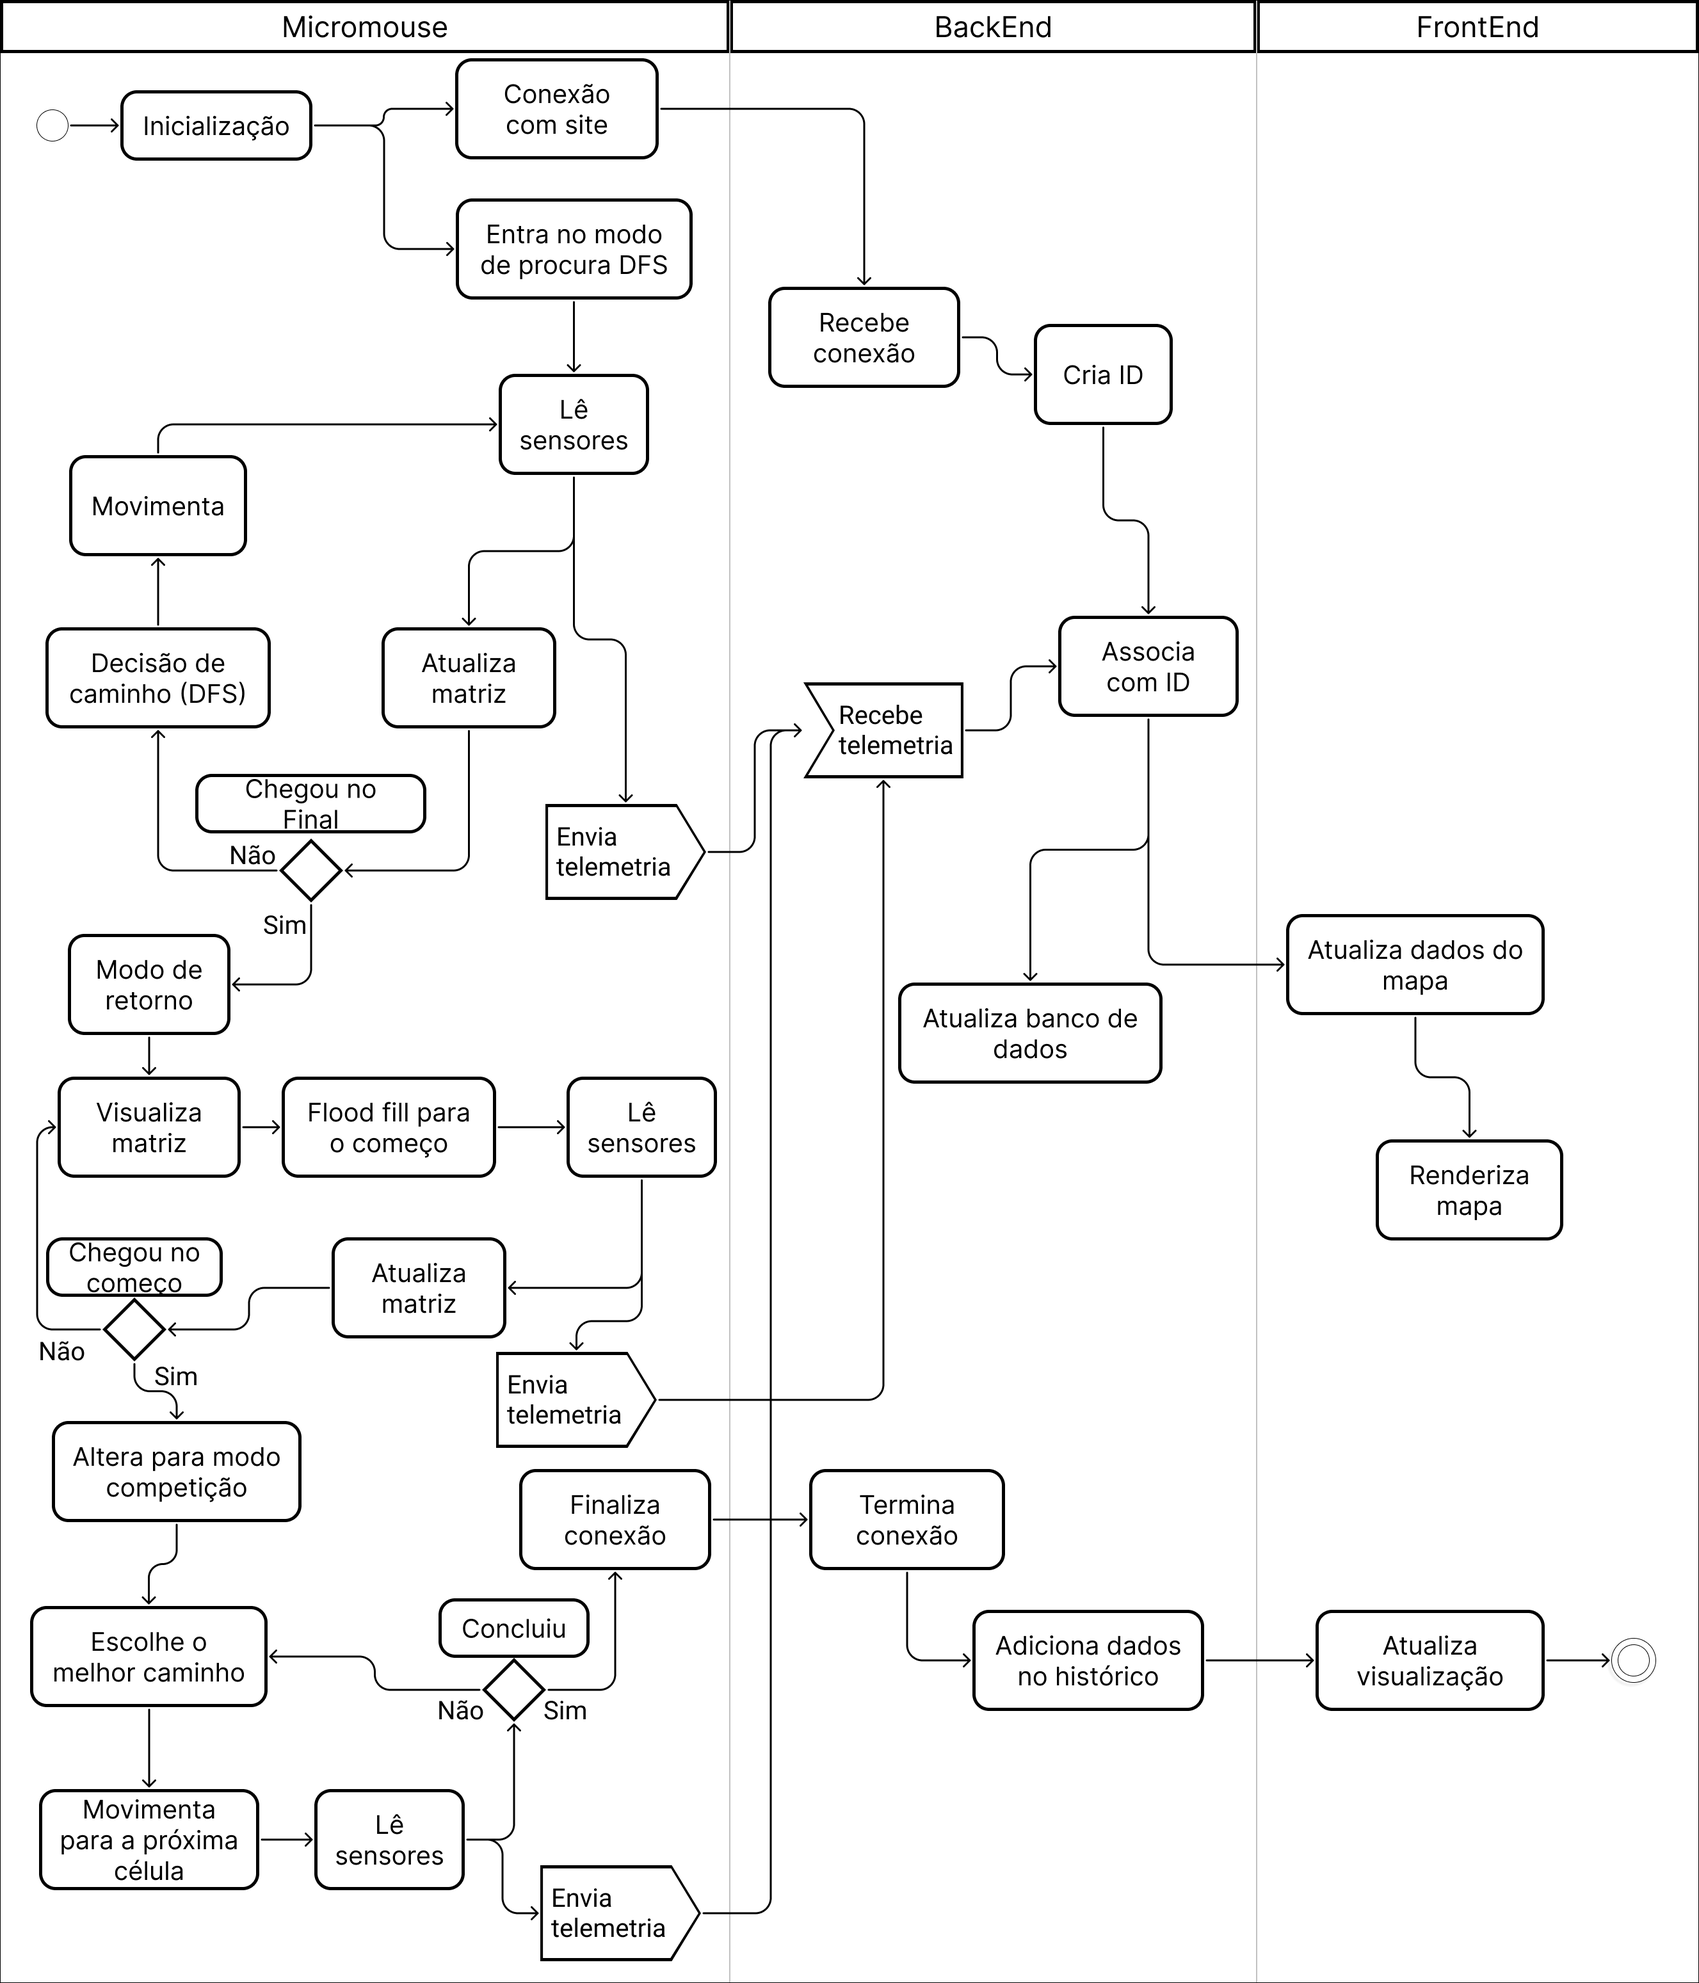
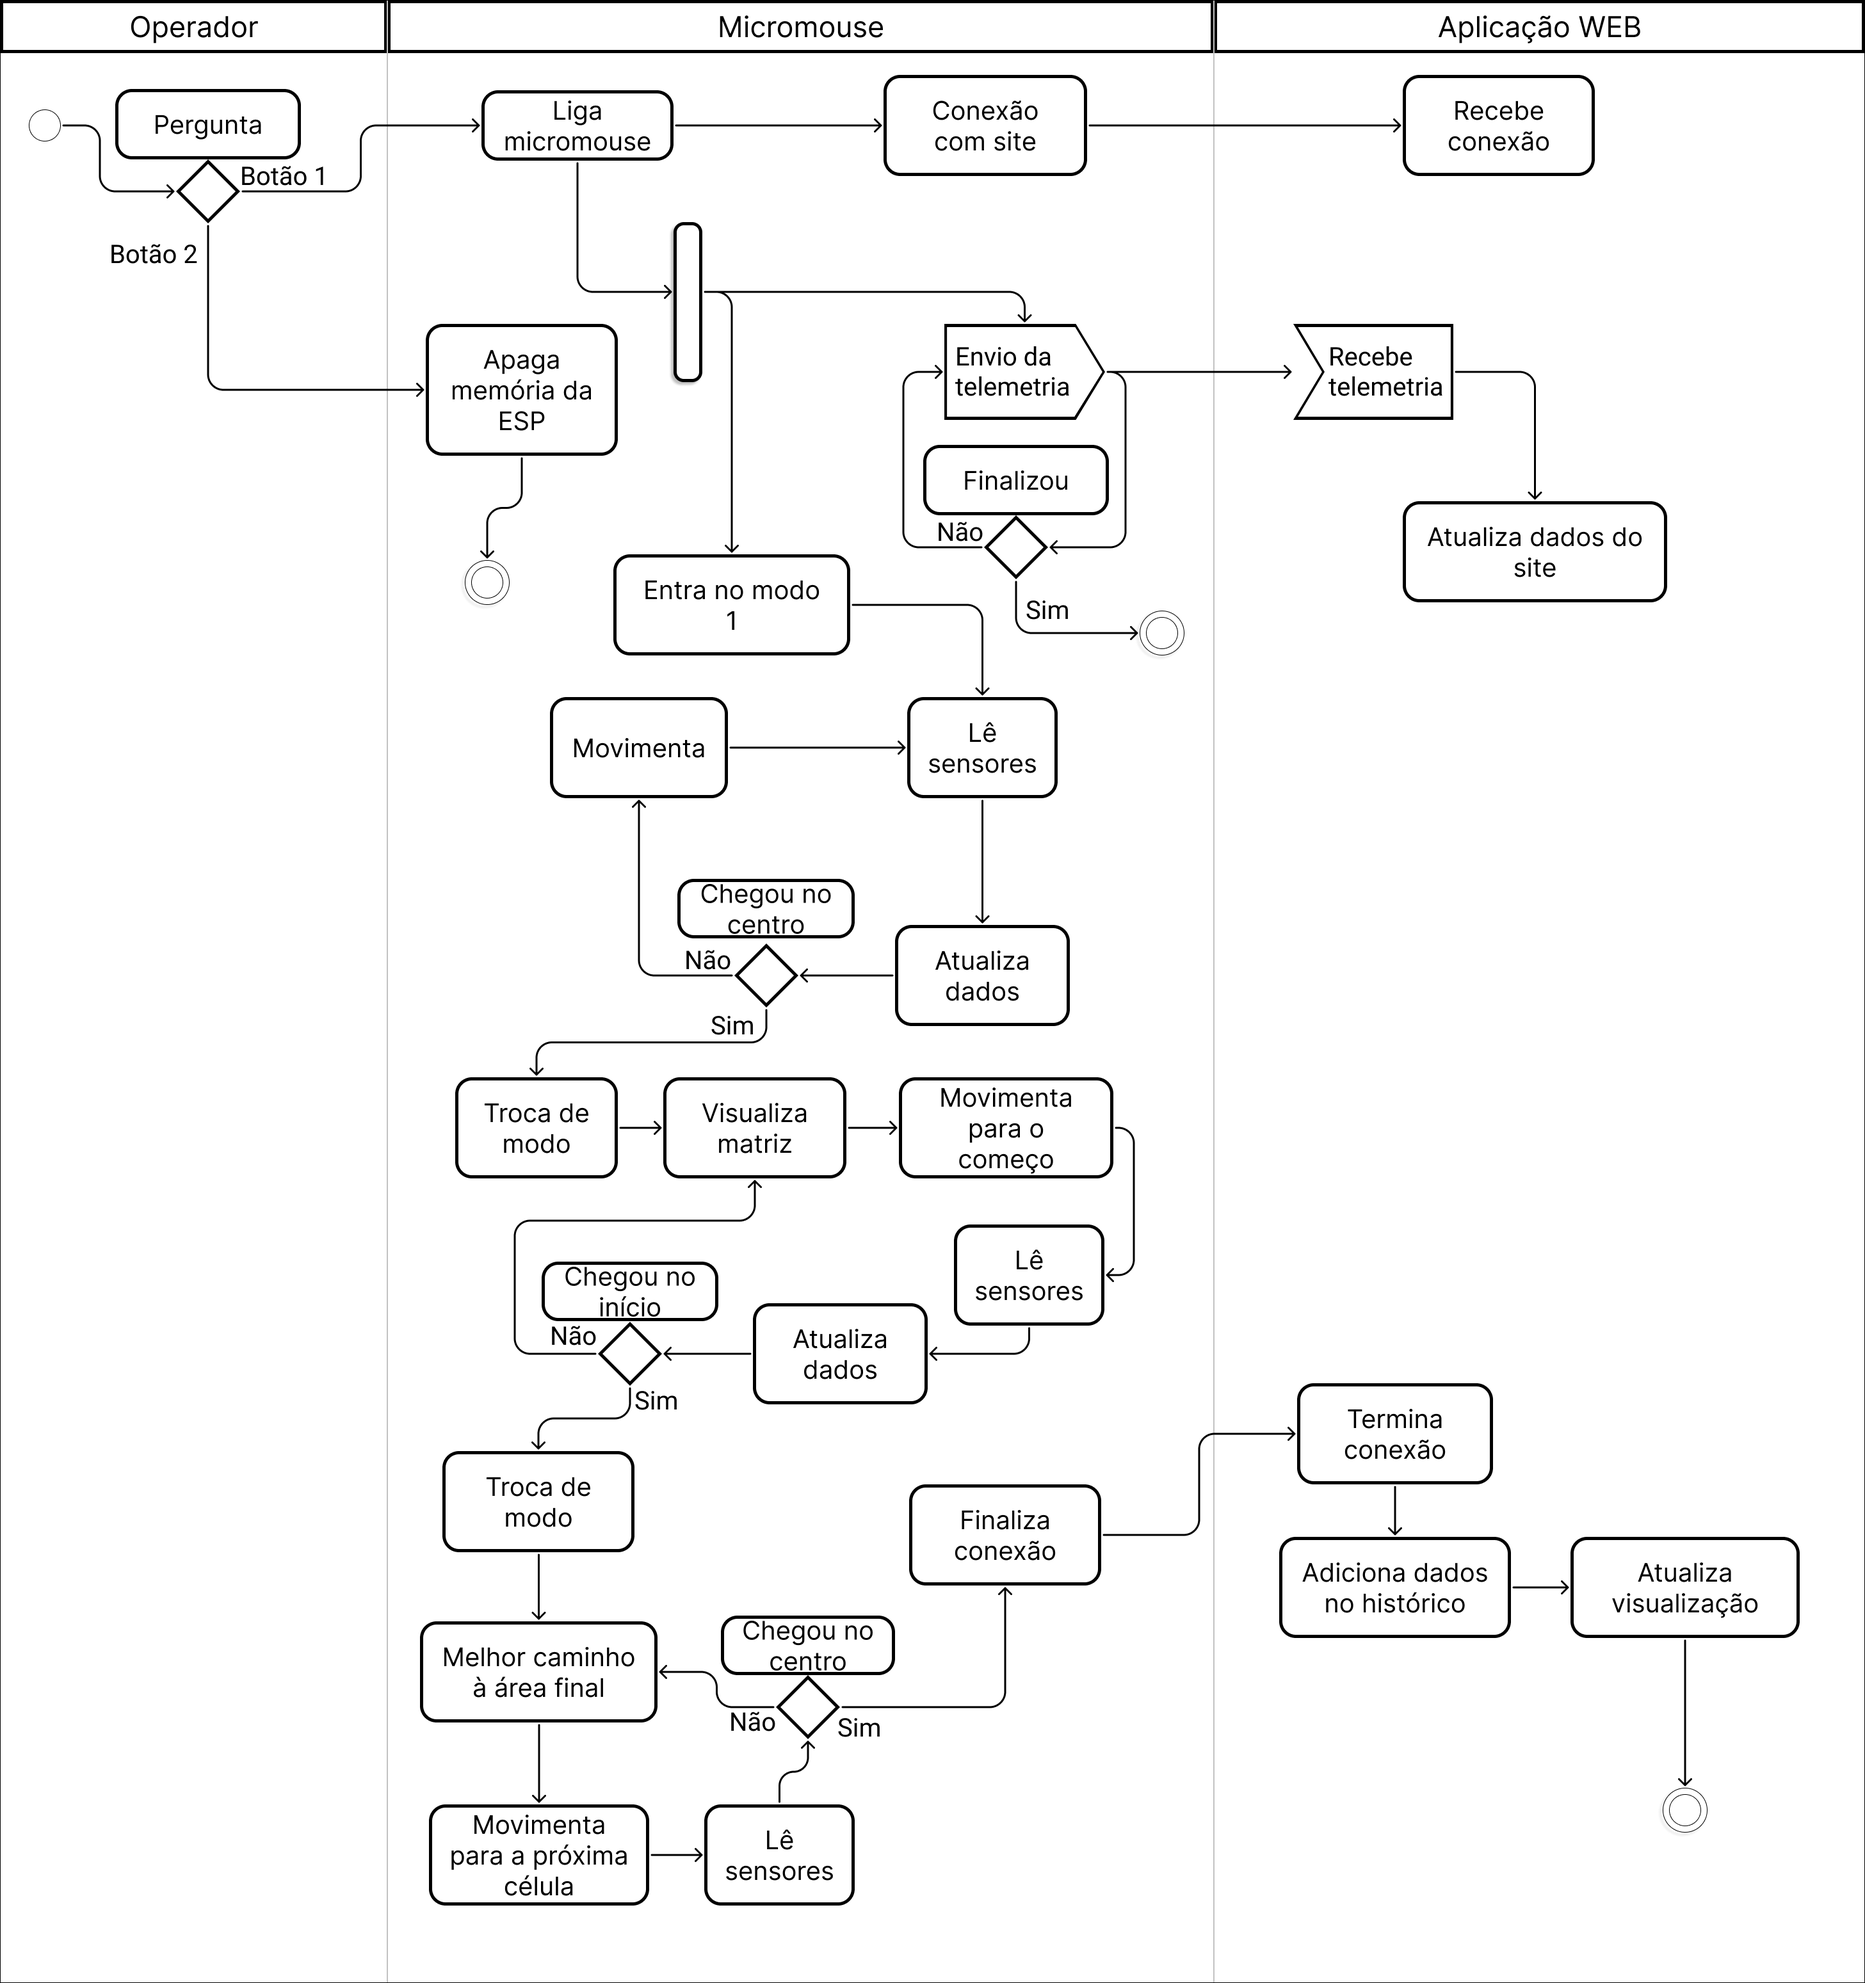
docs(soft): ajuste na imagem da uml de atividade e entradas/saidas do sistema

diff --git a/docs/relatorio/editaveis/06_projetoconceitual.tex b/docs/relatorio/editaveis/06_projetoconceitual.tex
@@ -187,17 +187,19 @@ Abaixo, apresenta-se o detalhamento do consumo energético do sistema, considera
     \end{figure}
       
     
-    \item Sensores:
+    \item Entradas:
     \begin{itemize}
         \item Sensores ultrassônico;
         \item Sensor de tensão;
         \item Encoders dos motores;
-        \item Cronômetro da ESP32.
+        \item Cronômetro da ESP32;
+        \item Chaves seletoras.
     \end{itemize} 
     
     \item Telemetria:
     \begin{itemize}
         \item Ultimo movimento;
+        \item Distância dos sensores ultrassônicos;
         \item RPM dos motores;
         \item Tensão e corrente;
         \item Modo do micromouse atual;
